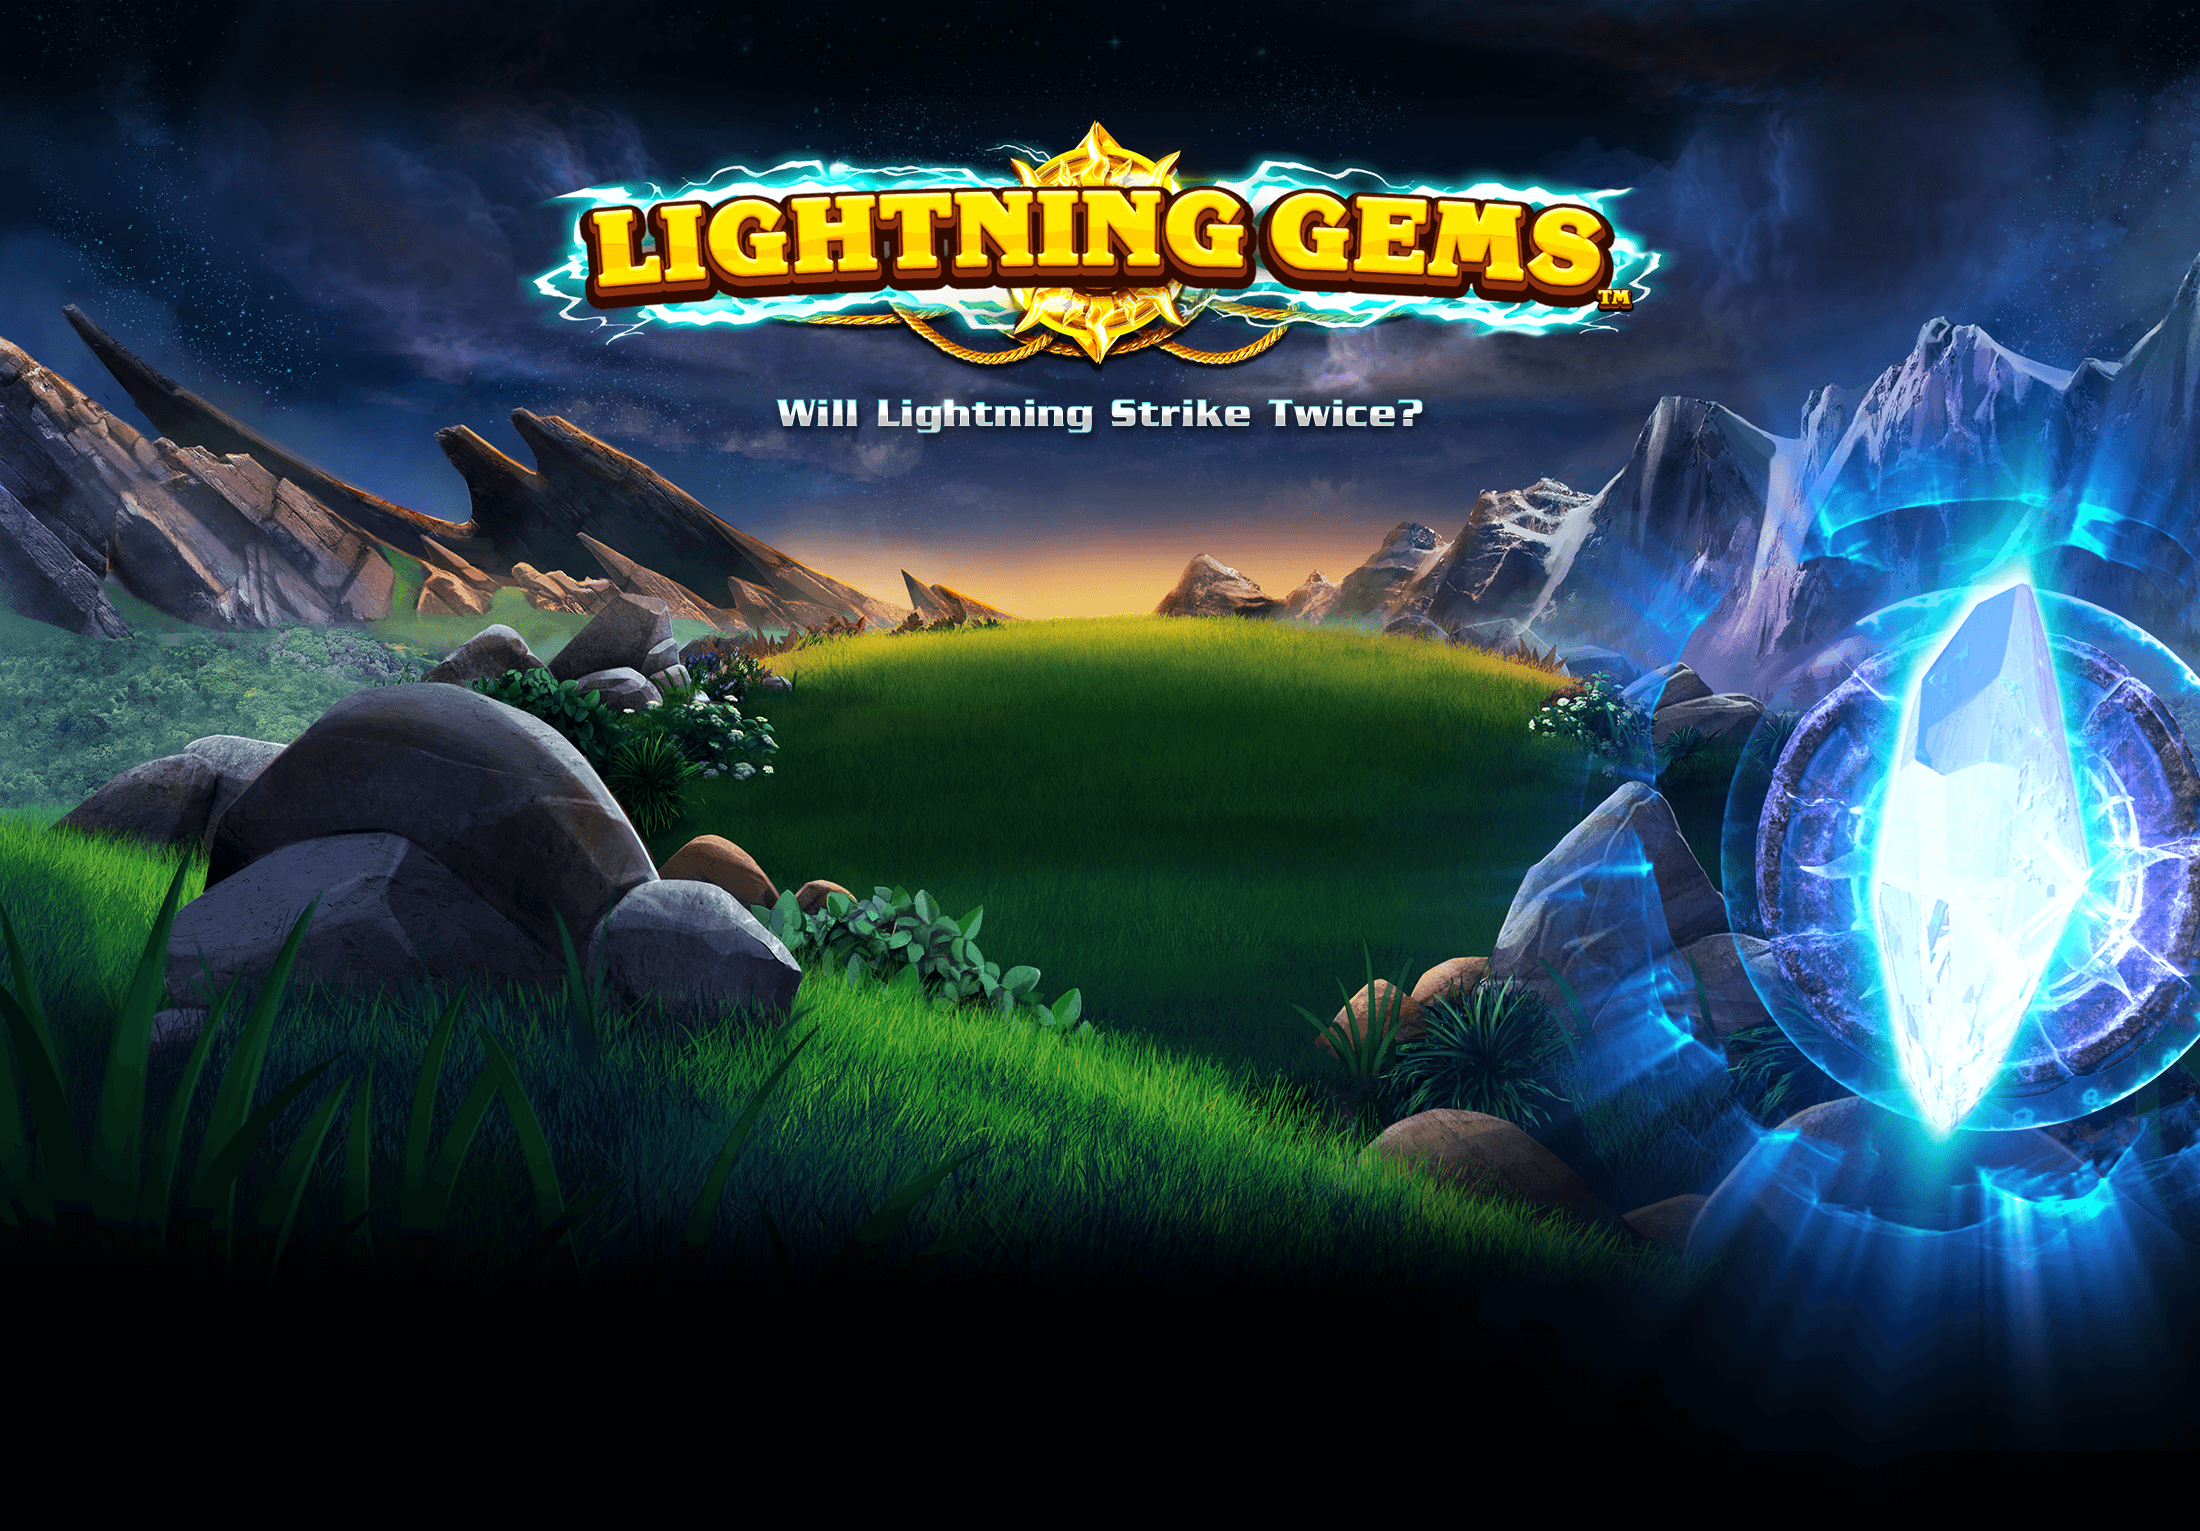
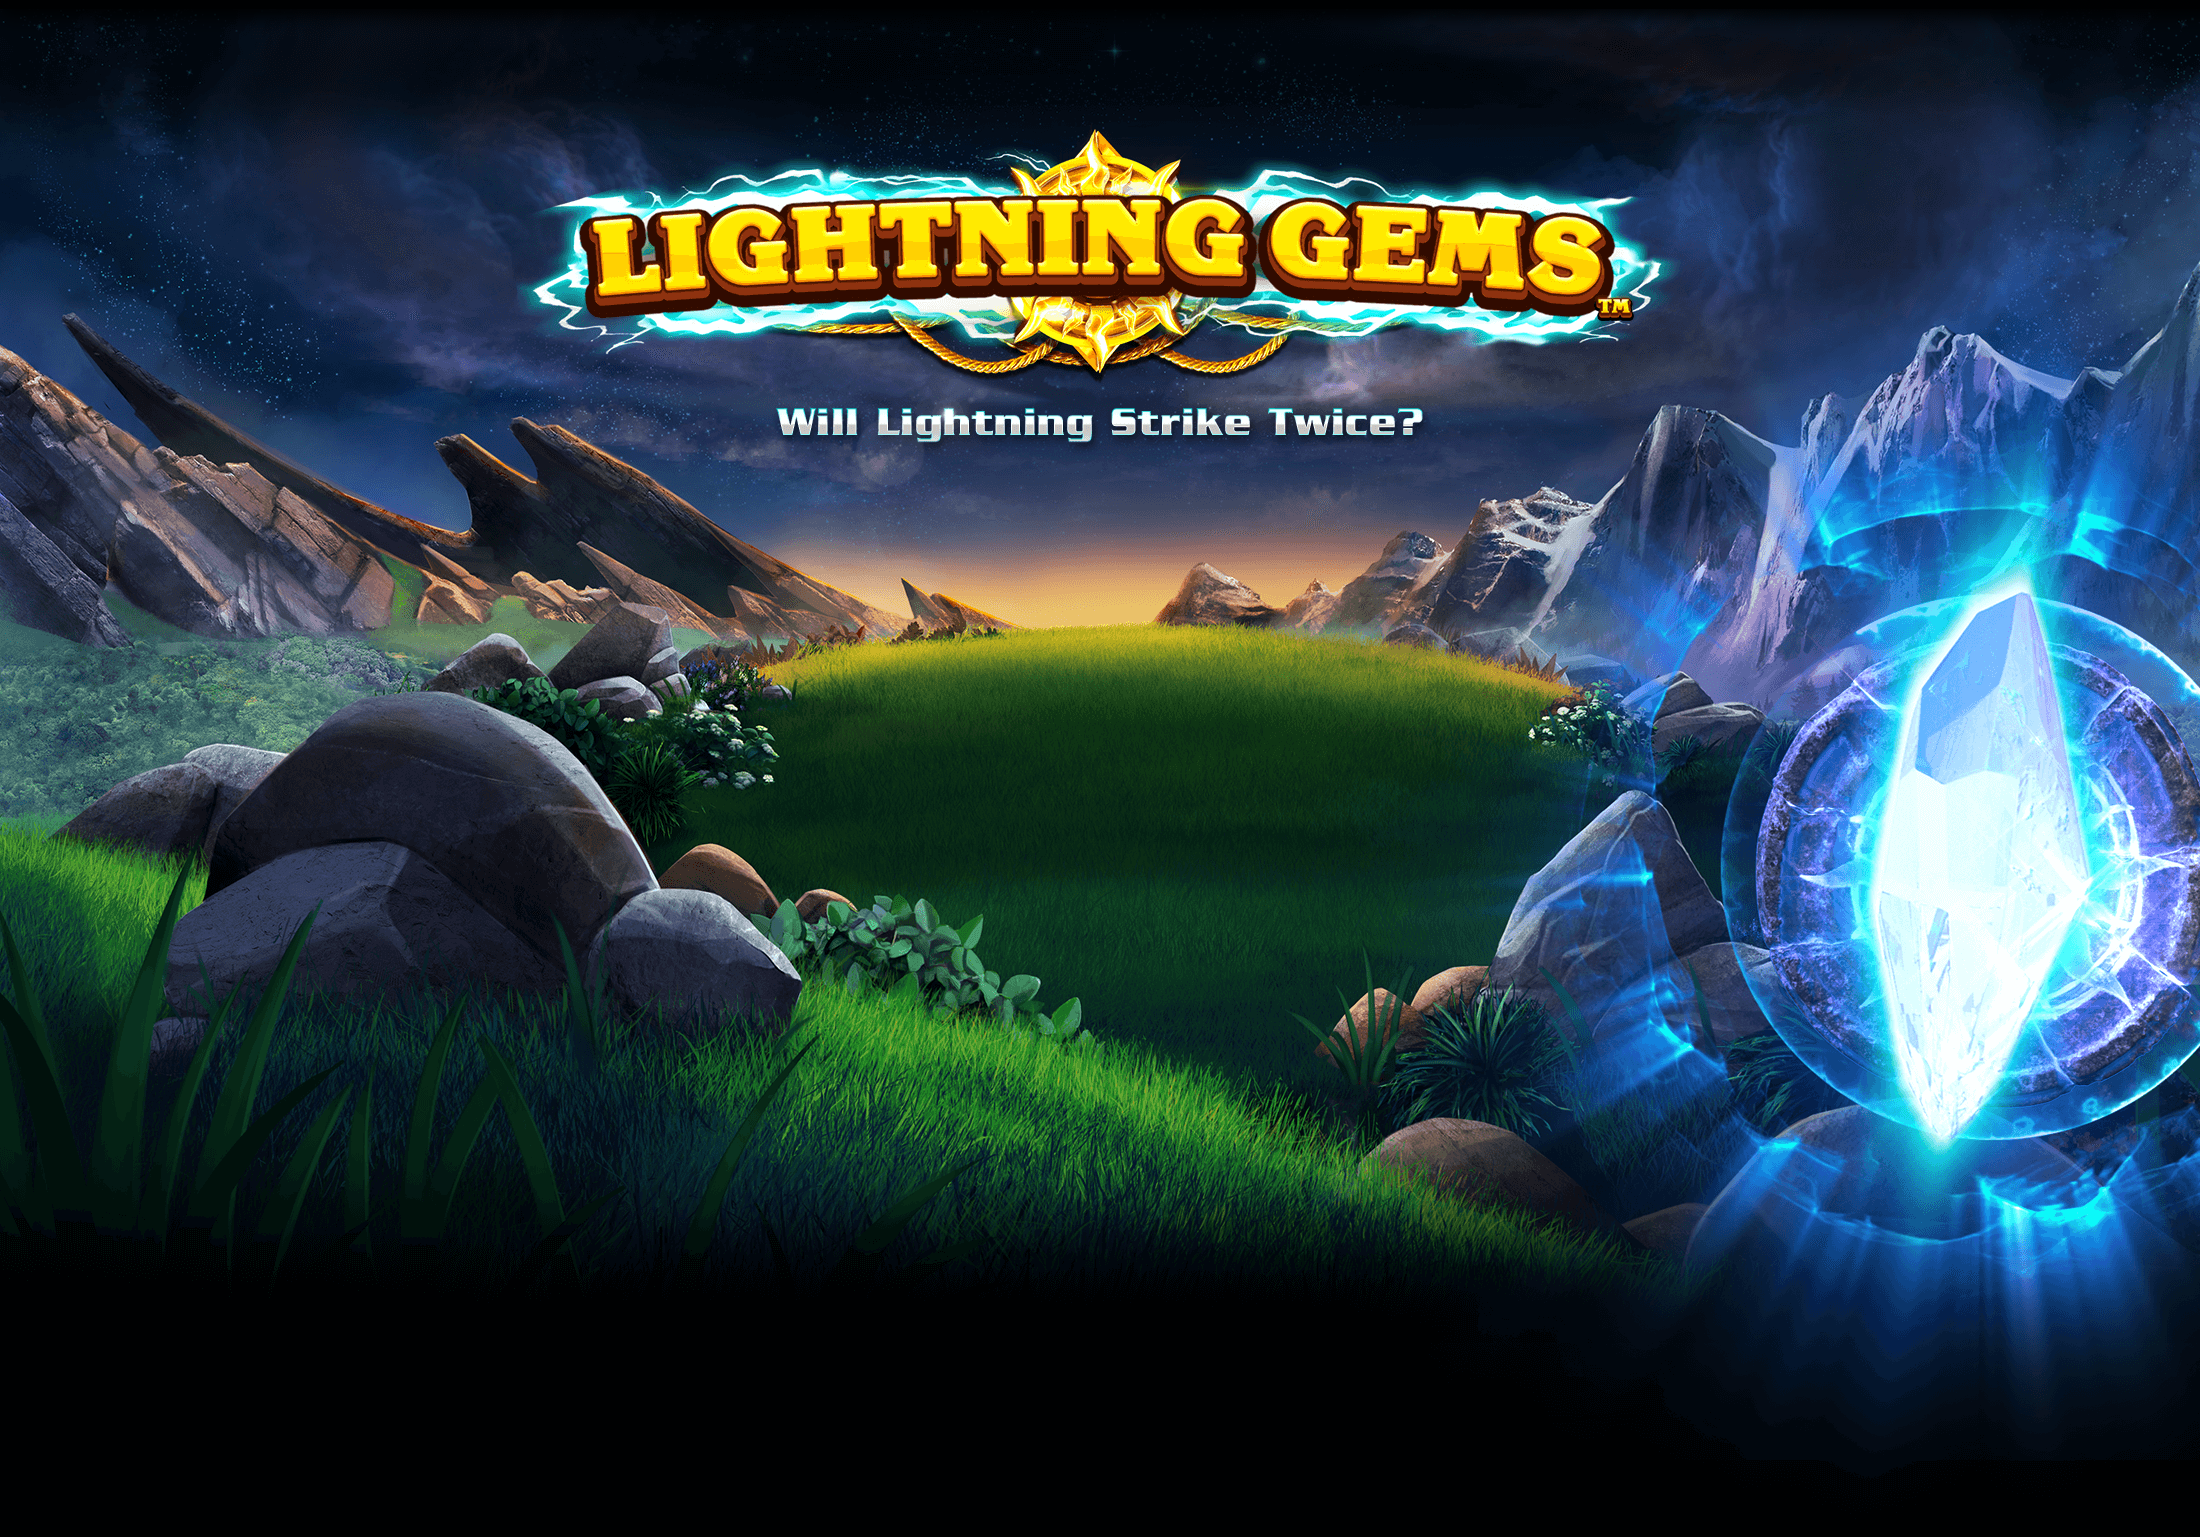
Responsive styles

diff --git a/src/assets/sass/App.scss b/src/assets/sass/App.scss
@@ -1,27 +1,65 @@
+@import url('https://fonts.googleapis.com/css?family=Lato');
 @import "./variables.scss";
+@import "./respond.scss";
 @import "./header.scss";
 @import "./footer.scss";
 @import "./banner.scss";
 @import "./forms.scss";
+@import "./buttons.scss";
 
 body{
   font-size:10px;
   box-sizing:border-box;
-  background:#000 url(assets/images/bg-lightning-gems.png) center top no-repeat;
+  background:#000102 url(assets/images/bg-lightning-gems.png) center 50px no-repeat;
+  background-size:100% auto;
+
+  @include respond(mobile-only){
+    background-size:130% auto;
+  }
+
+  @include respond(medium){
+    background-position:center top;
+  }
 }
 
 .wrapper{
   margin:0 auto;
-  padding:0 80px;
-  max-width:1750px;
+  padding:0 $gutter/3;
+  max-width:$wrapper-small;
+}
+
+@include respond(medium){
+  .wrapper{
+    padding:0 $gutter;
+    max-width:$wrapper-medium;
+  }
+}
+
+@include respond(large){
+  .wrapper{
+    max-width:$wrapper-large;
+  }
 }
 
 .wrapper--thin{
-  max-width:1160px;
+  max-width:$wrapper-small;
+  padding:0;
+}
+
+@include respond(medium){
+  .wrapper--thin{
+    max-width:$wrapper-medium;
+  }
+}
+
+@include respond(large){
+  .wrapper--thin{
+    padding:0 $gutter;
+  }
 }
 
 .app-body{
-  padding:30px 30px 150px 30px;
+  padding:30px 14px 150px 30px;
   background:#fff;
 }
 

diff --git a/src/assets/sass/_respond.scss b/src/assets/sass/_respond.scss
@@ -1,0 +1,33 @@
+// Sass Breakpoint Mixin
+@mixin respond($point) {
+    @if $point == mobile-only {
+        @media (min-width: 0) and (max-width: $width-mobile) { @content; }
+    }
+    @if $point == small {
+        @media (min-width: 0) and (max-width: $width-small) { @content; }
+    }
+    @else if $point == medium {
+        @media (min-width: $width-medium)  { @content; }
+    }
+    @if $point == medium-only {
+        @media (min-width: $width-medium) and (max-width: $width-large) { @content; }
+    }
+    @else if $point == responsive-only {
+        @media (min-width: 0) and (max-width: $width-large) { @content; }
+    }
+    @if $point == large {
+        @media (min-width: $width-large) { @content; }
+    }
+    @else if $point == large-only {
+        @media (min-width: $width-large) and (max-width: 1280px) { @content; }
+    }
+    @if $point { // allows custom breakpoints
+        @media (min-width: $point) { @content; }
+    }
+}
+
+.mobile-touch-overflow,
+.mobile-touch-overflow * {
+    /* some level of transform keeps elements from blinking out of visibility on iOS */
+    -webkit-transform: rotateY(0);
+}

diff --git a/src/components/games/Games.scss b/src/components/games/Games.scss
@@ -1,28 +1,31 @@
-div.games-grid-container{
-    max-width: 1200px;
-    margin: 0 auto;
+@import "../../assets/sass/variables.scss";
+@import "../../assets/sass/respond.scss";
+
+.games-grid-container{
+    margin-right:-16px;
 }
 
-ul.games-grid{
-    list-style: none;
-    margin: 0;
-    padding: 0;
+.games-grid{
+    list-style:none;
+    margin:0;
+    padding:0;
 }
 
 .games-grid-game-container{
-    position: relative;
-    display: inline-block;
-    width:18%;
+    position:relative;
+    display:inline-block;
+    max-width:100%;
+    width:220px;
     height:0;
-    margin:0 1.33% 1.33% 0;
+    margin:0 16px 16px 0;
     padding-bottom:11.4%;
     background-color:#646464;
     box-shadow:1.1px 2.8px 6px rgba(0, 0, 0, 0.3);
 }
 
-.games-grid-game-container:nth-child(5n){
-    margin-right:0;
-}
+//.games-grid-game-container:nth-child(5n){
+//    margin-right:0;
+//}
 
 .games-grid-game{
     position:absolute;

diff --git a/src/assets/sass/_header.scss b/src/assets/sass/_header.scss
@@ -3,33 +3,60 @@
 }
 
 .app-header{
-  padding:20px;
+  padding:10px 20px;
   color:white;
+}
+
+@include respond(medium){
+	padding:20px;
 }
 
 .app-logo{
 	display:inline-block;
-	margin:27px 20px 27px 0;
+	margin:20px 20px 0 0;
 	vertical-align:middle;
+}
+
+@include respond(small){
+	.app-logo{
+		max-width:100px;
+	}
 }
 
 .app-title{
 	display:inline-block;
 	vertical-align:middle;
 	font-size:1.2rem;
+
+	@include respond(small){
+		float:right;
+		margin-bottom:5px;
+	}
 }
 
 .nav{
 	float:right;
 	display:inline-block;
 	text-align:right;
-	padding-top:34px;
+	padding-top:27px;
+
+	@include respond(small){
+		float:none;
+		display:block;
+		padding:0;
+		margin:-10px 0 0 0;
+	}
 }
 
 .nav li{
 	display:inline-block;
 	margin-left:20px;
 	font-size:1rem;
+
+	@include respond(small){
+		margin-left:8px;
+		font-size:0.7rem;
+	}
 }
 
 .nav li a{

diff --git a/src/assets/sass/_forms.scss b/src/assets/sass/_forms.scss
@@ -1,19 +1,24 @@
 .game-filter{
-    display:flex;
+//    display:flex;
     padding-bottom:20px;
     margin-bottom:20px;
-    border-bottom:2px solid $color-grey;
 }
 
 .game-filter fieldset{
+	width:100%;
 	margin:0;
-	padding:0 20px 0 0;
+	padding:0;
 	border:none;
-	color:$color-blue;
+}
 
-	&:last-child{
-		padding-right:0;
-	}
+.game-filter .row:first-child{
+	border-bottom:2px solid $color-grey;
+}
+
+.game-filter .row fieldset{
+	display:inline-block;
+	width:20%;
+	color:$color-blue;
 }
 
 .game-filter label{
@@ -23,6 +28,7 @@
 }
 
 .game-filter .rw-widget-input{
+	max-width:90%;
 	font-size:1.6em;
 	border:1px solid $color-blue;
 	border-radius:25px;
@@ -46,4 +52,9 @@
 
 .game-filter .rw-widget-input .rw-input{
 	color:inherit;
+}
+
+.game-filter .rw-widget-input .rw-popup{
+	background:$color-blue;
+	color:#fff;
 }

diff --git a/src/assets/sass/_buttons.scss b/src/assets/sass/_buttons.scss
@@ -1,0 +1,21 @@
+.banner-button{
+	display:block;
+	margin:0 auto;
+	padding:15px 0;
+	width:240px;
+	height:auto;
+	background-color:$color-blue;
+	border-radius:25px;
+	box-shadow:2px 4px 4.5px 0.5px rgba(0, 0, 0, 0.2);
+	text-align:center;
+	color:#fff;
+	font-family:Lato;
+	font-size:20px;
+	font-weight:500;
+	line-height:25px;
+	text-decoration:none;
+
+	@include respond(mobile-only){
+		transform:scale(0.6);
+	}
+}

diff --git a/src/App.js b/src/App.js
@@ -28,7 +28,7 @@ class App extends Component {
                 </div>
             </div>
             <div className="banner">
-                <a className="banner-button">Find out now</a>
+                <a className="banner-button" href="#">Find out now</a>
             </div>
             <div className="wrapper">
                 <div className="app-body">

diff --git a/src/assets/sass/_variables.scss b/src/assets/sass/_variables.scss
@@ -1,5 +1,18 @@
-//Variables
+//Sizes
+$gutter:		 80px;
 
+$width-large:    1440px;
+$wrapper-large:  1224px;
+
+$width-medium:   1164px;
+$wrapper-medium: 988px;
+
+$width-small:	 912px;
+$wrapper-small:  752px;
+
+$width-mobile:	 600px;
+
+//Colours
 $color-blue:#007dbe;
 $color-blue-dark:#14334a;
 $color-grey:#c3c3c3;

diff --git a/src/assets/sass/_banner.scss b/src/assets/sass/_banner.scss
@@ -1,3 +1,11 @@
 .banner{
-	height:510px;
+	padding:20vw 0 5vw 0;
+
+	@include respond(small){
+		padding:15vw 0 5vw 0;
+	}
+
+	@include respond(medium){
+		padding:15vw 0 5vw 0;
+	}
 }
